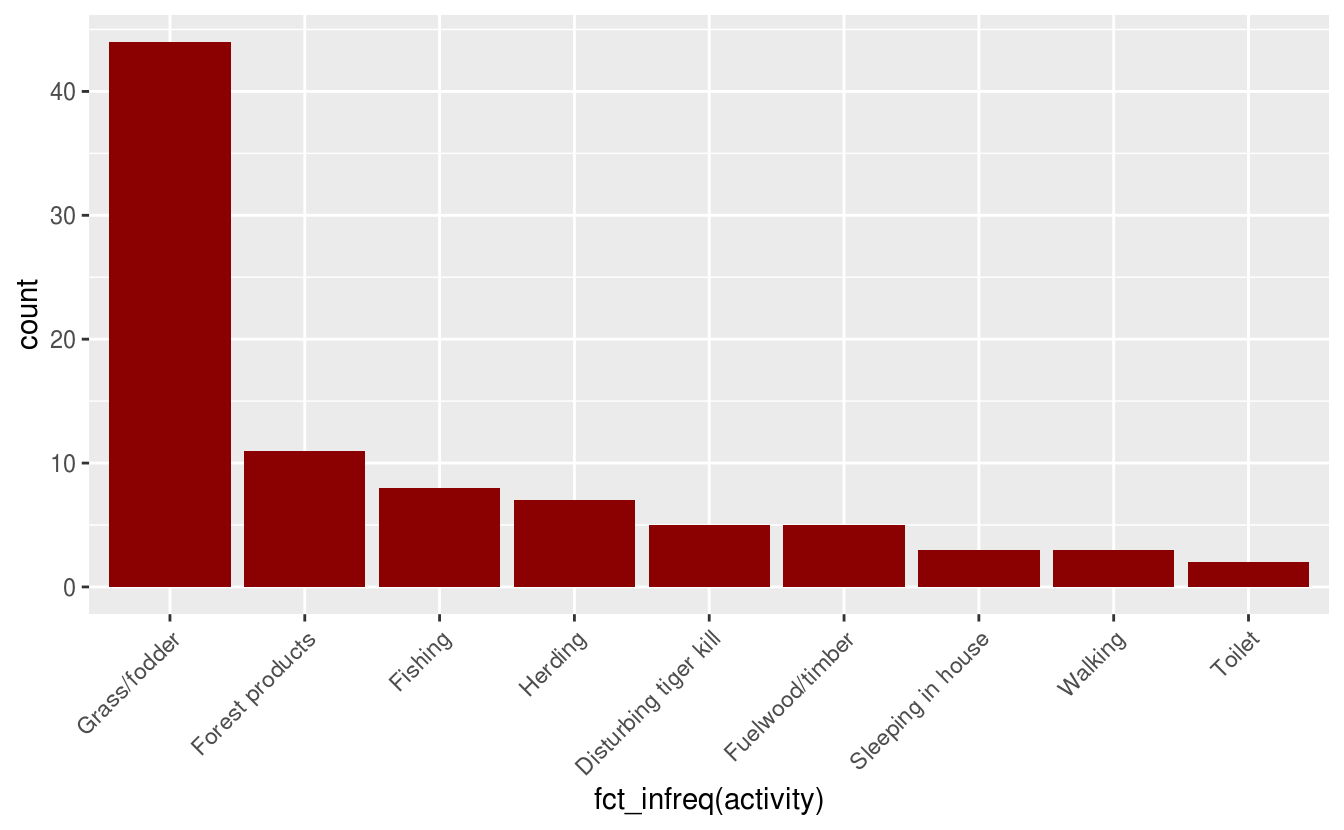
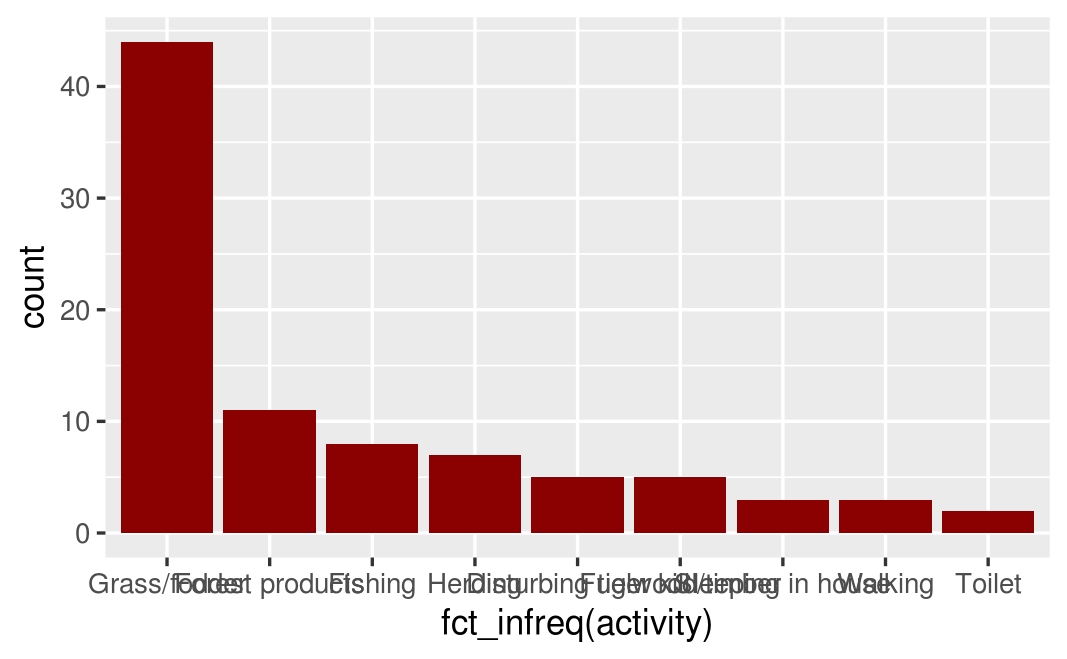
Update the book

Changed region(s): [[0.0, 0.0303, 0.9897, 1.0]]

diff --git a/introduction-to-ggplot2.html b/introduction-to-ggplot2.html
@@ -291,12 +291,13 @@
   <span class="fu">theme</span><span class="op">(</span>axis.text.x <span class="op">=</span> <span class="fu">element_text</span><span class="op">(</span>angle <span class="op">=</span> <span class="fl">45</span>, hjust <span class="op">=</span> <span class="fl">1</span><span class="op">)</span><span class="op">)</span></code></pre></div>
 <div class="inline-figure"><img src="lab-3_files/figure-html/unnamed-chunk-9-1.png" width="70%" style="display: block; margin: auto;"></div>
 <p>The <code>forcats::</code> preceding the function name is just a way of telling R which package the function is in. It’s not necessary here, because we already loaded the forcats package, but it serves as a visual reminder to anyone reading the code that it requires the forcats package.</p>
-<p>Third, the figure in the textbook features red columns. This is accomplished by adding a <code>fill</code> argument to <code>geom_box()</code>. Don’t forget the comma separating the mapping and fill arguments.</p>
+<p>Third, the figure in the textbook features red columns and larger text. This is accomplished by adding a <code>fill</code> argument to <code>geom_bar()</code> and setting the font-size using the <code>theme_gray()</code> function:</p>
 <div class="sourceCode" id="cb34"><pre class="downlit sourceCode r">
 <code class="sourceCode R"><span class="fu">ggplot</span><span class="op">(</span>data <span class="op">=</span> <span class="va">tiger_data</span><span class="op">)</span> <span class="op">+</span>
   <span class="fu">geom_bar</span><span class="op">(</span>mapping <span class="op">=</span> <span class="fu">aes</span><span class="op">(</span>x <span class="op">=</span> <span class="fu">fct_infreq</span><span class="op">(</span><span class="va">activity</span><span class="op">)</span><span class="op">)</span>, fill <span class="op">=</span> <span class="st">"darkred"</span><span class="op">)</span> <span class="op">+</span>
-  <span class="fu">theme</span><span class="op">(</span>axis.text.x <span class="op">=</span> <span class="fu">element_text</span><span class="op">(</span>angle <span class="op">=</span> <span class="fl">45</span>, hjust <span class="op">=</span> <span class="fl">1</span><span class="op">)</span><span class="op">)</span></code></pre></div>
-<div class="inline-figure"><img src="lab-3_files/figure-html/unnamed-chunk-10-1.png" width="400" height="405" style="display: block; margin: auto;"></div>
+  <span class="fu">theme</span><span class="op">(</span>axis.text.x <span class="op">=</span> <span class="fu">element_text</span><span class="op">(</span>angle <span class="op">=</span> <span class="fl">45</span>, hjust <span class="op">=</span> <span class="fl">1</span><span class="op">)</span><span class="op">)</span> <span class="op">+</span>
+  <span class="fu">theme_gray</span><span class="op">(</span>base_size <span class="op">=</span> <span class="fl">13</span><span class="op">)</span></code></pre></div>
+<div class="inline-figure"><img src="lab-3_files/figure-html/unnamed-chunk-10-1.png" width="70%" style="display: block; margin: auto;"></div>
 <p>Finally, the axis labels could be improved. Axis labels should start with capital letters and, for numeric variables, should include the units of measurement in parentheses. We can set axis labels with <code>labs()</code>. The argument <code>x =</code> means set the x axis label to the following text, while <code>y =</code> means set the y axis label to the following text. The label text itself should appear in quotation marks.</p>
 <p>We can also make the axis labels bold by changing the <code>axis.title</code> element using the <code>theme()</code> function. Both of these changes are incorporated below:</p>
 <div class="sourceCode" id="cb35"><pre class="downlit sourceCode r">

diff --git a/lab-3.md b/lab-3.md
@@ -278,16 +278,17 @@ ggplot(data = tiger_data) +
 
 The `forcats::` preceding the function name is just a way of telling R which package the function is in. It's not necessary here, because we already loaded the forcats package, but it serves as a visual reminder to anyone reading the code that it requires the forcats package.
 
-Third, the figure in the textbook features red columns. This is accomplished by adding a `fill` argument to `geom_box()`. Don't forget the comma separating the mapping and fill arguments.
+Third, the figure in the textbook features red columns and larger text. This is accomplished by adding a `fill` argument to `geom_bar()` and setting the font-size using the `theme_gray()` function:
 
 
 ```r
 ggplot(data = tiger_data) +
   geom_bar(mapping = aes(x = fct_infreq(activity)), fill = "darkred") +
-  theme(axis.text.x = element_text(angle = 45, hjust = 1))
+  theme(axis.text.x = element_text(angle = 45, hjust = 1)) +
+  theme_gray(base_size = 13)
 ```
 
-<img src="lab-3_files/figure-html/unnamed-chunk-10-1.png" width="400" height="405" style="display: block; margin: auto;" />
+<img src="lab-3_files/figure-html/unnamed-chunk-10-1.png" width="70%" style="display: block; margin: auto;" />
 
 Finally, the axis labels could be improved. Axis labels should start with capital letters and, for numeric variables, should include the units of measurement in parentheses. We can set axis labels with `labs()`. The argument `x =` means set the x axis label to the following text, while `y =` means set the y axis label to the following text. The label text itself should appear in quotation marks.
 
